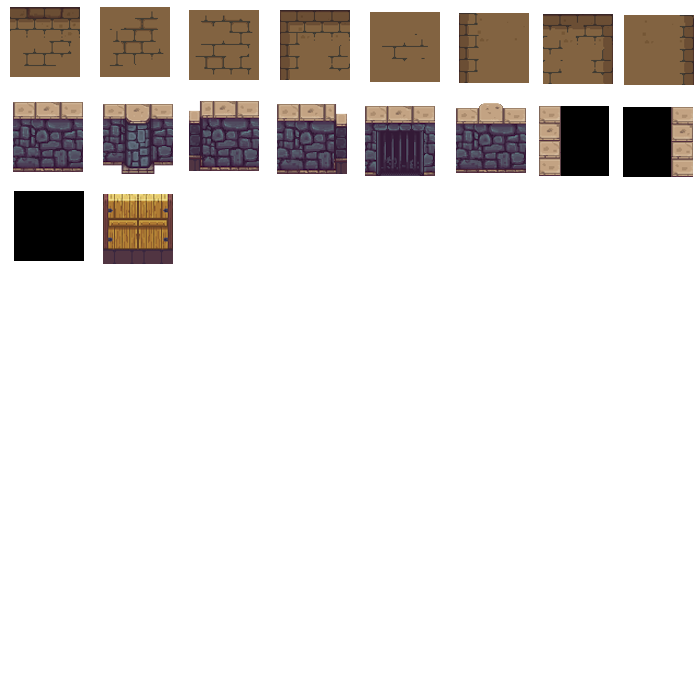
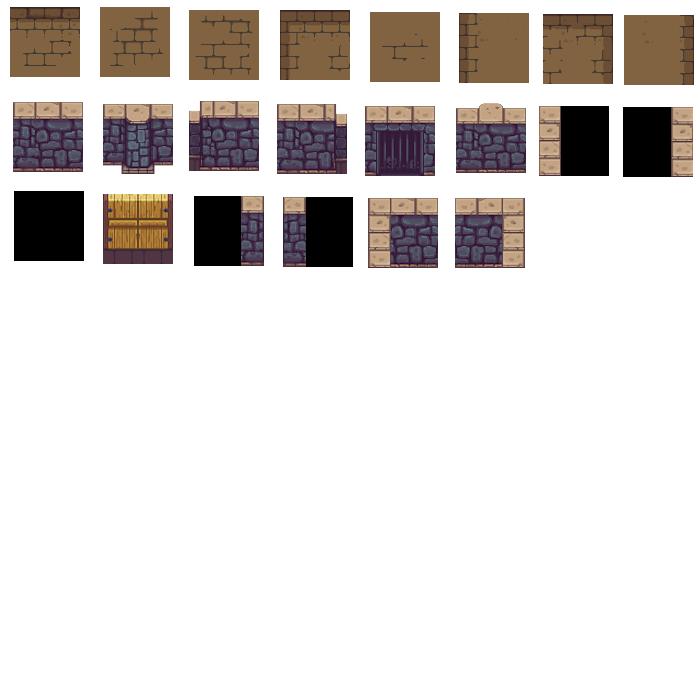
add more tiles and place

Changed region(s): [[0.27, 0.27, 0.75, 0.39]]

diff --git a/dist/main.js b/dist/main.js
@@ -94,7 +94,7 @@
 /***/ (function(module, __webpack_exports__, __webpack_require__) {
 
 "use strict";
-eval("__webpack_require__.r(__webpack_exports__);\n/* harmony export (binding) */ __webpack_require__.d(__webpack_exports__, \"default\", function() { return Board; });\n/* harmony import */ var _player__WEBPACK_IMPORTED_MODULE_0__ = __webpack_require__(/*! ./player */ \"./src/player.js\");\n/* harmony import */ var _sprite__WEBPACK_IMPORTED_MODULE_1__ = __webpack_require__(/*! ./sprite */ \"./src/sprite.js\");\n\r\n\r\n\r\nclass Board {\r\n  constructor() {\r\n    this.gameBoard = document.getElementById(\"gameBoard\"); \r\n    this.ctx = this.gameBoard.getContext('2d');\r\n    this.gameBoard.width = 1500;\r\n    this.gameBoard.height = 700;\r\n    this.tileWidth = 70;\r\n    this.tileHeight = 70;\r\n    this.mapWidth = 20;\r\n    this.mapHeight = 10;\r\n    this.gameMap =  [\r\n  //  0  1  2  3  4  5  6  7  8  9 10 11 12 13 14 15 16 17 18 19 \r\n      8, 1, 1, 1, 9, 0, 0, 0, 0, 0, 0, 0, 0, 0, 0, 0, 0, 0, 0, 0, // 0\r\n      8, 18, 15, 15, 9, 1, 1, 1, 1, 1, 1, 1, 1, 1, 1, 1, 1, 1, 1, 0, // 1\r\n      8, 12, 12, 1, 1, 1, 2, 1, 1, 1, 1, 1, 1, 1, 1, 1, 1, 1, 1, 0, // 2\r\n      0, 12, 12, 1, 1, 1, 4, 4, 1, 1, 1, 1, 1, 1, 1, 1, 1, 1, 1, 0, // 3\r\n      0, 12, 12, 12, 1, 1, 2, 2, 1, 1, 1, 1, 1, 1, 1, 1, 1, 1, 1, 0, // 4\r\n      0, 1, 1, 1, 1, 1, 2, 2, 1, 1, 1, 1, 1, 1, 1, 1, 1, 1, 1, 0, // 5\r\n      0, 1, 1, 1, 1, 1, 4, 4, 1, 1, 1, 1, 1, 1, 1, 1, 1, 1, 1, 0, // 6\r\n      0, 1, 1, 1, 1, 1, 2, 1, 1, 1, 1, 1, 1, 1, 1, 1, 1, 1, 1, 0, // 7\r\n      0, 1, 1, 1, 1, 1, 1, 2, 1, 1, 1, 1, 1, 1, 1, 1, 1, 1, 1, 0, // 8\r\n      0, 0, 0, 0, 0, 0, 0, 0, 0, 0, 0, 0, 0, 0, 0, 0, 0, 0, 0, 0 // 9\r\n\r\n    ];  \r\n    \r\n    this.floorTypes = {\r\n      solid: 0,\r\n      walkable: 1\r\n    };\r\n\r\n\r\n    this.tileTypes = {\r\n      0: { type: \"outOfMap\", floor: this.floorTypes.solid, sprite: new _sprite__WEBPACK_IMPORTED_MODULE_1__[\"default\"](\"./src/images/DungeonTiles.png\", [14, 191], [70, 70]) },\r\n      1: { type: \"xWall\", floor: this.floorTypes.solid, sprite: new _sprite__WEBPACK_IMPORTED_MODULE_1__[\"default\"](\"./src/images/DungeonTiles.png\", [13, 102], [70, 70]) },\r\n      2: { type: \"xWallPillDown\", floor: this.floorTypes.solid, sprite: new _sprite__WEBPACK_IMPORTED_MODULE_1__[\"default\"](\"./src/images/DungeonTiles.png\", [103, 104], [70, 70]) },\r\n      3: { type: \"xWallPillUp\", floor: this.floorTypes.solid, sprite: new _sprite__WEBPACK_IMPORTED_MODULE_1__[\"default\"](\"./src/images/DungeonTiles.png\", [456, 108], [70, 70]) },\r\n      4: { type: \"xWallDoorFrameR\", floor: this.floorTypes.solid, sprite: new _sprite__WEBPACK_IMPORTED_MODULE_1__[\"default\"](\"./src/images/DungeonTiles.png\", [200, 101], [70, 70]) },\r\n      5: { type: \"xWallDoorFrameL\", floor: this.floorTypes.solid, sprite: new _sprite__WEBPACK_IMPORTED_MODULE_1__[\"default\"](\"./src/images/DungeonTiles.png\", [207, 144], [70, 70]) },\r\n      6: { type: \"xDoor\", floor: this.floorTypes.solid, sprite: new _sprite__WEBPACK_IMPORTED_MODULE_1__[\"default\"](\"./src/images/DungeonTiles.png\", [103, 194], [70, 70]) },\r\n      7: { type: \"xWallDecor\", floor: this.floorTypes.solid, sprite: new _sprite__WEBPACK_IMPORTED_MODULE_1__[\"default\"](\"./src/images/DungeonTiles.png\", [165, 106], [70, 70]) },\r\n      8: { type: \"yWallL\", floor: this.floorTypes.solid, sprite: new _sprite__WEBPACK_IMPORTED_MODULE_1__[\"default\"](\"./src/images/DungeonTiles.png\", [623, 107], [70, 70]) },\r\n      9: { type: \"yWallR\", floor: this.floorTypes.solid, sprite: new _sprite__WEBPACK_IMPORTED_MODULE_1__[\"default\"](\"./src/images/DungeonTiles.png\", [539, 106], [70, 70]) },\r\n      // 10: { type: \"yDoor\", floor: this.floorTypes.solid, sprite: new Sprite(\"./src/images/DungeonTiles.png\", [13, 95], [70, 70]) },\r\n      // 11: { type: \"spikes\", floor: this.floorTypes.solid, sprite: new Sprite(\"./src/images/DungeonTiles.png\", [13, 95], [70, 70]) },\r\n      12: { type: \"groundReg\", floor: this.floorTypes.walkable, sprite: new _sprite__WEBPACK_IMPORTED_MODULE_1__[\"default\"](\"./src/images/DungeonTiles.png\", [100, 7], [70, 70]) },\r\n      13: { type: \"groundReg2\", floor: this.floorTypes.walkable, sprite: new _sprite__WEBPACK_IMPORTED_MODULE_1__[\"default\"](\"./src/images/DungeonTiles.png\", [189, 10], [70, 70]) },\r\n      14: { type: \"groundReg3\", floor: this.floorTypes.walkable, sprite: new _sprite__WEBPACK_IMPORTED_MODULE_1__[\"default\"](\"./src/images/DungeonTiles.png\", [370, 12], [70, 70]) },\r\n      15: { type: \"groundTop\", floor: this.floorTypes.walkable, sprite: new _sprite__WEBPACK_IMPORTED_MODULE_1__[\"default\"](\"./src/images/DungeonTiles.png\", [10, 7], [70, 70]) },\r\n      16: { type: \"groundL\", floor: this.floorTypes.walkable, sprite: new _sprite__WEBPACK_IMPORTED_MODULE_1__[\"default\"](\"./src/images/DungeonTiles.png\", [459, 13], [70, 70]) },\r\n      17: { type: \"groundR\", floor: this.floorTypes.walkable, sprite: new _sprite__WEBPACK_IMPORTED_MODULE_1__[\"default\"](\"./src/images/DungeonTiles.png\", [624, 15], [70, 70]) },\r\n      18: { type: \"groundLCorner\", floor: this.floorTypes.walkable, sprite: new _sprite__WEBPACK_IMPORTED_MODULE_1__[\"default\"](\"./src/images/DungeonTiles.png\", [280, 10], [70, 70]) },\r\n      19: { type: \"groundRCorner\", floor: this.floorTypes.walkable, sprite: new _sprite__WEBPACK_IMPORTED_MODULE_1__[\"default\"](\"./src/images/DungeonTiles.png\", [543, 14], [70, 70]) }\r\n    };\r\n\r\n    this.directions = {\r\n      up: 0,\r\n      right: 1,\r\n      down: 2,\r\n      left: 3\r\n    };\r\n\r\n\r\n  }\r\n\r\n\r\n};\r\n\r\n\r\n\n\n//# sourceURL=webpack:///./src/board.js?");
+eval("__webpack_require__.r(__webpack_exports__);\n/* harmony export (binding) */ __webpack_require__.d(__webpack_exports__, \"default\", function() { return Board; });\n/* harmony import */ var _player__WEBPACK_IMPORTED_MODULE_0__ = __webpack_require__(/*! ./player */ \"./src/player.js\");\n/* harmony import */ var _sprite__WEBPACK_IMPORTED_MODULE_1__ = __webpack_require__(/*! ./sprite */ \"./src/sprite.js\");\n\r\n\r\n\r\nclass Board {\r\n  constructor() {\r\n    this.gameBoard = document.getElementById(\"gameBoard\"); \r\n    this.ctx = this.gameBoard.getContext('2d');\r\n    this.gameBoard.width = 1500;\r\n    this.gameBoard.height = 700;\r\n    this.tileWidth = 70;\r\n    this.tileHeight = 70;\r\n    this.mapWidth = 20;\r\n    this.mapHeight = 10;\r\n    this.gameMap =  [\r\n  //   0   1   2   3  4   5   6   7   8   9   10  11  12  13  14  15  16  17  18  19 \r\n      28, 21, 21, 21, 29, 20, 20, 20, 20, 20, 20, 20, 20, 20, 20, 20, 20, 20, 20, 20, // 0\r\n      28, 18, 15, 15, 29, 28, 21, 21, 21, 21, 21, 21, 21, 21, 21, 21, 21, 21, 21, 20, // 1\r\n      28, 16, 12, 14, 21, 21, 18, 15, 15, 15, 15, 15, 15, 15, 15, 15, 15, 15, 15, 20, // 2\r\n      28, 16, 12, 13, 15, 15, 12, 12, 14, 14, 14, 14, 14, 14, 14, 14, 14, 14, 14, 20, // 3\r\n      28, 16, 12, 12, 12, 13, 13, 12, 12, 12, 12, 12, 12, 12, 12, 12, 14, 14, 14, 20, // 4\r\n      28, 16, 14, 14, 14, 14, 13, 13, 12, 12, 12, 12, 12, 12, 12, 12, 12, 12, 12, 20, // 5\r\n      28, 16, 12, 12, 32, 33, 16, 12, 12, 12, 12, 12, 12, 12, 12, 12, 12, 12, 12, 20, // 6\r\n      28, 16, 12, 12, 29, 28, 16, 12, 12, 12, 12, 12, 12, 12, 12, 12, 12, 12, 12, 20, // 7\r\n      30, 21, 21, 21, 31, 30, 21, 21, 21, 21, 21, 21, 21, 21, 21, 21, 21, 21, 21, 20, // 8\r\n      20, 20, 20, 20, 20, 20, 20, 20, 20, 20, 20, 20, 20, 20, 20, 20, 20, 20, 20, 20  // 9\r\n\r\n    ];  \r\n    \r\n    this.floorTypes = {\r\n      solid: 0,\r\n      walkable: 1\r\n    };\r\n\r\n\r\n    this.tileTypes = {\r\n      20: { type: \"outOfMap\", floor: this.floorTypes.solid, sprite: new _sprite__WEBPACK_IMPORTED_MODULE_1__[\"default\"](\"./src/images/DungeonTiles.png\", [14, 191], [70, 70]) },\r\n      21: { type: \"xWall\", floor: this.floorTypes.solid, sprite: new _sprite__WEBPACK_IMPORTED_MODULE_1__[\"default\"](\"./src/images/DungeonTiles.png\", [13, 102], [70, 70]) },\r\n      22: { type: \"xWallPillDown\", floor: this.floorTypes.solid, sprite: new _sprite__WEBPACK_IMPORTED_MODULE_1__[\"default\"](\"./src/images/DungeonTiles.png\", [103, 104], [70, 70]) },\r\n      23: { type: \"xWallPillUp\", floor: this.floorTypes.solid, sprite: new _sprite__WEBPACK_IMPORTED_MODULE_1__[\"default\"](\"./src/images/DungeonTiles.png\", [456, 108], [70, 70]) },\r\n      24: { type: \"xWallDoorFrameR\", floor: this.floorTypes.solid, sprite: new _sprite__WEBPACK_IMPORTED_MODULE_1__[\"default\"](\"./src/images/DungeonTiles.png\", [200, 101], [70, 70]) },\r\n      25: { type: \"xWallDoorFrameL\", floor: this.floorTypes.solid, sprite: new _sprite__WEBPACK_IMPORTED_MODULE_1__[\"default\"](\"./src/images/DungeonTiles.png\", [207, 144], [70, 70]) },\r\n      26: { type: \"xDoor\", floor: this.floorTypes.solid, sprite: new _sprite__WEBPACK_IMPORTED_MODULE_1__[\"default\"](\"./src/images/DungeonTiles.png\", [103, 194], [70, 70]) },\r\n      27: { type: \"xWallDecor\", floor: this.floorTypes.solid, sprite: new _sprite__WEBPACK_IMPORTED_MODULE_1__[\"default\"](\"./src/images/DungeonTiles.png\", [165, 106], [70, 70]) },\r\n      28: { type: \"yWallL\", floor: this.floorTypes.solid, sprite: new _sprite__WEBPACK_IMPORTED_MODULE_1__[\"default\"](\"./src/images/DungeonTiles.png\", [623, 107], [70, 70]) },\r\n      29: { type: \"yWallR\", floor: this.floorTypes.solid, sprite: new _sprite__WEBPACK_IMPORTED_MODULE_1__[\"default\"](\"./src/images/DungeonTiles.png\", [539, 106], [70, 70]) },\r\n      // 10: { type: \"yDoor\", floor: this.floorTypes.solid, sprite: new Sprite(\"./src/images/DungeonTiles.png\", [13, 95], [70, 70]) },\r\n      // 11: { type: \"spikes\", floor: this.floorTypes.solid, sprite: new Sprite(\"./src/images/DungeonTiles.png\", [13, 95], [70, 70]) },\r\n      12: { type: \"groundReg\", floor: this.floorTypes.walkable, sprite: new _sprite__WEBPACK_IMPORTED_MODULE_1__[\"default\"](\"./src/images/DungeonTiles.png\", [100, 7], [70, 70]) },\r\n      13: { type: \"groundReg2\", floor: this.floorTypes.walkable, sprite: new _sprite__WEBPACK_IMPORTED_MODULE_1__[\"default\"](\"./src/images/DungeonTiles.png\", [189, 10], [70, 70]) },\r\n      14: { type: \"groundReg3\", floor: this.floorTypes.walkable, sprite: new _sprite__WEBPACK_IMPORTED_MODULE_1__[\"default\"](\"./src/images/DungeonTiles.png\", [370, 12], [70, 70]) },\r\n      15: { type: \"groundTop\", floor: this.floorTypes.walkable, sprite: new _sprite__WEBPACK_IMPORTED_MODULE_1__[\"default\"](\"./src/images/DungeonTiles.png\", [10, 7], [70, 70]) },\r\n      16: { type: \"groundL\", floor: this.floorTypes.walkable, sprite: new _sprite__WEBPACK_IMPORTED_MODULE_1__[\"default\"](\"./src/images/DungeonTiles.png\", [459, 13], [70, 70]) },\r\n      17: { type: \"groundR\", floor: this.floorTypes.walkable, sprite: new _sprite__WEBPACK_IMPORTED_MODULE_1__[\"default\"](\"./src/images/DungeonTiles.png\", [624, 15], [70, 70]) },\r\n      18: { type: \"groundLCorner\", floor: this.floorTypes.walkable, sprite: new _sprite__WEBPACK_IMPORTED_MODULE_1__[\"default\"](\"./src/images/DungeonTiles.png\", [280, 10], [70, 70]) },\r\n      19: { type: \"groundRCorner\", floor: this.floorTypes.walkable, sprite: new _sprite__WEBPACK_IMPORTED_MODULE_1__[\"default\"](\"./src/images/DungeonTiles.png\", [543, 14], [70, 70]) },\r\n      30: { type: \"bottomCornerPillL\", floor: this.floorTypes.solid, sprite: new _sprite__WEBPACK_IMPORTED_MODULE_1__[\"default\"](\"./src/images/DungeonTiles.png\", [194, 196], [70, 70]) },\r\n      31: { type: \"bottomCornerPillR\", floor: this.floorTypes.solid, sprite: new _sprite__WEBPACK_IMPORTED_MODULE_1__[\"default\"](\"./src/images/DungeonTiles.png\", [283, 197], [70, 70]) },\r\n      32: { type: \"bottomCornerUpL\", floor: this.floorTypes.solid, sprite: new _sprite__WEBPACK_IMPORTED_MODULE_1__[\"default\"](\"./src/images/DungeonTiles.png\", [368, 198], [70, 70]) },\r\n      33: { type: \"bottomCornerUpR\", floor: this.floorTypes.solid, sprite: new _sprite__WEBPACK_IMPORTED_MODULE_1__[\"default\"](\"./src/images/DungeonTiles.png\", [455, 198], [70, 70]) }\r\n    };\r\n\r\n    this.directions = {\r\n      up: 0,\r\n      right: 1,\r\n      down: 2,\r\n      left: 3\r\n    };\r\n\r\n\r\n  }\r\n\r\n\r\n};\r\n\r\n\r\n\n\n//# sourceURL=webpack:///./src/board.js?");
 
 /***/ }),
 

diff --git a/src/board.js b/src/board.js
@@ -12,17 +12,17 @@ export default class Board {
     this.mapWidth = 20;
     this.mapHeight = 10;
     this.gameMap =  [
-  //  0  1  2  3  4  5  6  7  8  9 10 11 12 13 14 15 16 17 18 19 
-      8, 1, 1, 1, 9, 0, 0, 0, 0, 0, 0, 0, 0, 0, 0, 0, 0, 0, 0, 0, // 0
-      8, 18, 15, 15, 9, 1, 1, 1, 1, 1, 1, 1, 1, 1, 1, 1, 1, 1, 1, 0, // 1
-      8, 12, 12, 1, 1, 1, 2, 1, 1, 1, 1, 1, 1, 1, 1, 1, 1, 1, 1, 0, // 2
-      0, 12, 12, 1, 1, 1, 4, 4, 1, 1, 1, 1, 1, 1, 1, 1, 1, 1, 1, 0, // 3
-      0, 12, 12, 12, 1, 1, 2, 2, 1, 1, 1, 1, 1, 1, 1, 1, 1, 1, 1, 0, // 4
-      0, 1, 1, 1, 1, 1, 2, 2, 1, 1, 1, 1, 1, 1, 1, 1, 1, 1, 1, 0, // 5
-      0, 1, 1, 1, 1, 1, 4, 4, 1, 1, 1, 1, 1, 1, 1, 1, 1, 1, 1, 0, // 6
-      0, 1, 1, 1, 1, 1, 2, 1, 1, 1, 1, 1, 1, 1, 1, 1, 1, 1, 1, 0, // 7
-      0, 1, 1, 1, 1, 1, 1, 2, 1, 1, 1, 1, 1, 1, 1, 1, 1, 1, 1, 0, // 8
-      0, 0, 0, 0, 0, 0, 0, 0, 0, 0, 0, 0, 0, 0, 0, 0, 0, 0, 0, 0 // 9
+  //   0   1   2   3  4   5   6   7   8   9   10  11  12  13  14  15  16  17  18  19 
+      28, 21, 21, 21, 29, 20, 20, 20, 20, 20, 20, 20, 20, 20, 20, 20, 20, 20, 20, 20, // 0
+      28, 18, 15, 15, 29, 28, 21, 21, 21, 21, 21, 21, 21, 21, 21, 21, 21, 21, 21, 20, // 1
+      28, 16, 12, 14, 21, 21, 18, 15, 15, 15, 15, 15, 15, 15, 15, 15, 15, 15, 15, 20, // 2
+      28, 16, 12, 13, 15, 15, 12, 12, 14, 14, 14, 14, 14, 14, 14, 14, 14, 14, 14, 20, // 3
+      28, 16, 12, 12, 12, 13, 13, 12, 12, 12, 12, 12, 12, 12, 12, 12, 14, 14, 14, 20, // 4
+      28, 16, 14, 14, 14, 14, 13, 13, 12, 12, 12, 12, 12, 12, 12, 12, 12, 12, 12, 20, // 5
+      28, 16, 12, 12, 32, 33, 16, 12, 12, 12, 12, 12, 12, 12, 12, 12, 12, 12, 12, 20, // 6
+      28, 16, 12, 12, 29, 28, 16, 12, 12, 12, 12, 12, 12, 12, 12, 12, 12, 12, 12, 20, // 7
+      30, 21, 21, 21, 31, 30, 21, 21, 21, 21, 21, 21, 21, 21, 21, 21, 21, 21, 21, 20, // 8
+      20, 20, 20, 20, 20, 20, 20, 20, 20, 20, 20, 20, 20, 20, 20, 20, 20, 20, 20, 20  // 9
 
     ];  
     
@@ -33,16 +33,16 @@ export default class Board {
 
 
     this.tileTypes = {
-      0: { type: "outOfMap", floor: this.floorTypes.solid, sprite: new Sprite("./src/images/DungeonTiles.png", [14, 191], [70, 70]) },
-      1: { type: "xWall", floor: this.floorTypes.solid, sprite: new Sprite("./src/images/DungeonTiles.png", [13, 102], [70, 70]) },
-      2: { type: "xWallPillDown", floor: this.floorTypes.solid, sprite: new Sprite("./src/images/DungeonTiles.png", [103, 104], [70, 70]) },
-      3: { type: "xWallPillUp", floor: this.floorTypes.solid, sprite: new Sprite("./src/images/DungeonTiles.png", [456, 108], [70, 70]) },
-      4: { type: "xWallDoorFrameR", floor: this.floorTypes.solid, sprite: new Sprite("./src/images/DungeonTiles.png", [200, 101], [70, 70]) },
-      5: { type: "xWallDoorFrameL", floor: this.floorTypes.solid, sprite: new Sprite("./src/images/DungeonTiles.png", [207, 144], [70, 70]) },
-      6: { type: "xDoor", floor: this.floorTypes.solid, sprite: new Sprite("./src/images/DungeonTiles.png", [103, 194], [70, 70]) },
-      7: { type: "xWallDecor", floor: this.floorTypes.solid, sprite: new Sprite("./src/images/DungeonTiles.png", [165, 106], [70, 70]) },
-      8: { type: "yWallL", floor: this.floorTypes.solid, sprite: new Sprite("./src/images/DungeonTiles.png", [623, 107], [70, 70]) },
-      9: { type: "yWallR", floor: this.floorTypes.solid, sprite: new Sprite("./src/images/DungeonTiles.png", [539, 106], [70, 70]) },
+      20: { type: "outOfMap", floor: this.floorTypes.solid, sprite: new Sprite("./src/images/DungeonTiles.png", [14, 191], [70, 70]) },
+      21: { type: "xWall", floor: this.floorTypes.solid, sprite: new Sprite("./src/images/DungeonTiles.png", [13, 102], [70, 70]) },
+      22: { type: "xWallPillDown", floor: this.floorTypes.solid, sprite: new Sprite("./src/images/DungeonTiles.png", [103, 104], [70, 70]) },
+      23: { type: "xWallPillUp", floor: this.floorTypes.solid, sprite: new Sprite("./src/images/DungeonTiles.png", [456, 108], [70, 70]) },
+      24: { type: "xWallDoorFrameR", floor: this.floorTypes.solid, sprite: new Sprite("./src/images/DungeonTiles.png", [200, 101], [70, 70]) },
+      25: { type: "xWallDoorFrameL", floor: this.floorTypes.solid, sprite: new Sprite("./src/images/DungeonTiles.png", [207, 144], [70, 70]) },
+      26: { type: "xDoor", floor: this.floorTypes.solid, sprite: new Sprite("./src/images/DungeonTiles.png", [103, 194], [70, 70]) },
+      27: { type: "xWallDecor", floor: this.floorTypes.solid, sprite: new Sprite("./src/images/DungeonTiles.png", [165, 106], [70, 70]) },
+      28: { type: "yWallL", floor: this.floorTypes.solid, sprite: new Sprite("./src/images/DungeonTiles.png", [623, 107], [70, 70]) },
+      29: { type: "yWallR", floor: this.floorTypes.solid, sprite: new Sprite("./src/images/DungeonTiles.png", [539, 106], [70, 70]) },
       // 10: { type: "yDoor", floor: this.floorTypes.solid, sprite: new Sprite("./src/images/DungeonTiles.png", [13, 95], [70, 70]) },
       // 11: { type: "spikes", floor: this.floorTypes.solid, sprite: new Sprite("./src/images/DungeonTiles.png", [13, 95], [70, 70]) },
       12: { type: "groundReg", floor: this.floorTypes.walkable, sprite: new Sprite("./src/images/DungeonTiles.png", [100, 7], [70, 70]) },
@@ -52,7 +52,11 @@ export default class Board {
       16: { type: "groundL", floor: this.floorTypes.walkable, sprite: new Sprite("./src/images/DungeonTiles.png", [459, 13], [70, 70]) },
       17: { type: "groundR", floor: this.floorTypes.walkable, sprite: new Sprite("./src/images/DungeonTiles.png", [624, 15], [70, 70]) },
       18: { type: "groundLCorner", floor: this.floorTypes.walkable, sprite: new Sprite("./src/images/DungeonTiles.png", [280, 10], [70, 70]) },
-      19: { type: "groundRCorner", floor: this.floorTypes.walkable, sprite: new Sprite("./src/images/DungeonTiles.png", [543, 14], [70, 70]) }
+      19: { type: "groundRCorner", floor: this.floorTypes.walkable, sprite: new Sprite("./src/images/DungeonTiles.png", [543, 14], [70, 70]) },
+      30: { type: "bottomCornerPillL", floor: this.floorTypes.solid, sprite: new Sprite("./src/images/DungeonTiles.png", [194, 196], [70, 70]) },
+      31: { type: "bottomCornerPillR", floor: this.floorTypes.solid, sprite: new Sprite("./src/images/DungeonTiles.png", [283, 197], [70, 70]) },
+      32: { type: "bottomCornerUpL", floor: this.floorTypes.solid, sprite: new Sprite("./src/images/DungeonTiles.png", [368, 198], [70, 70]) },
+      33: { type: "bottomCornerUpR", floor: this.floorTypes.solid, sprite: new Sprite("./src/images/DungeonTiles.png", [455, 198], [70, 70]) }
     };
 
     this.directions = {
